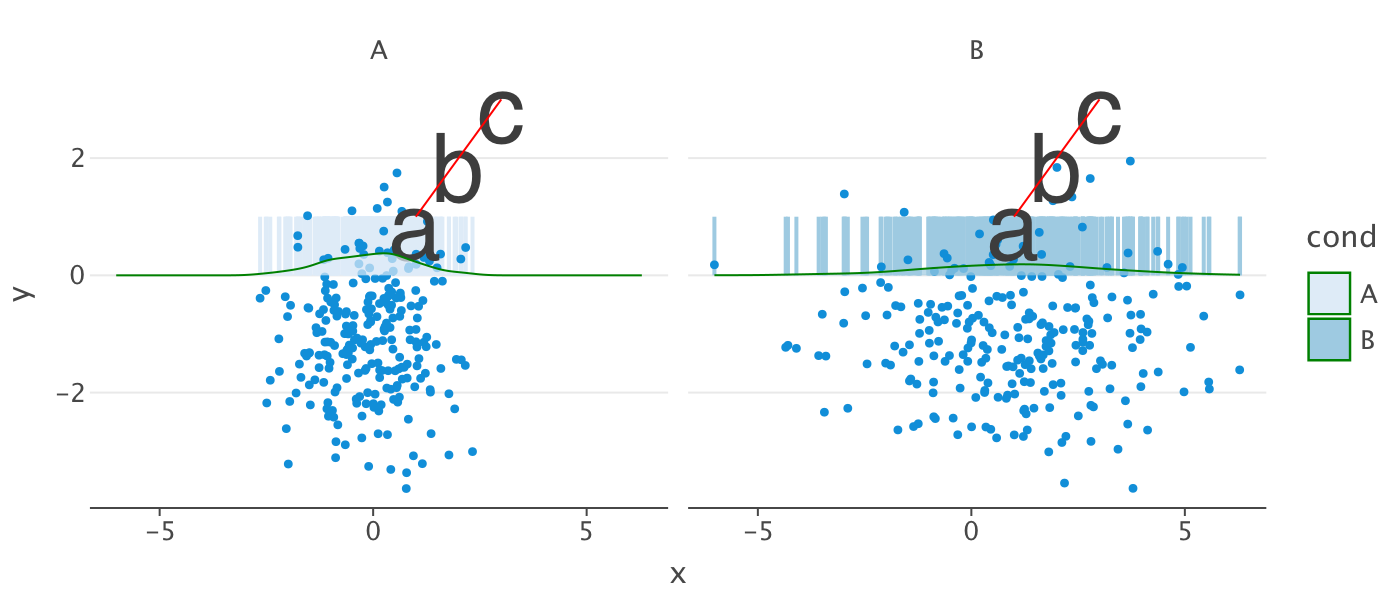
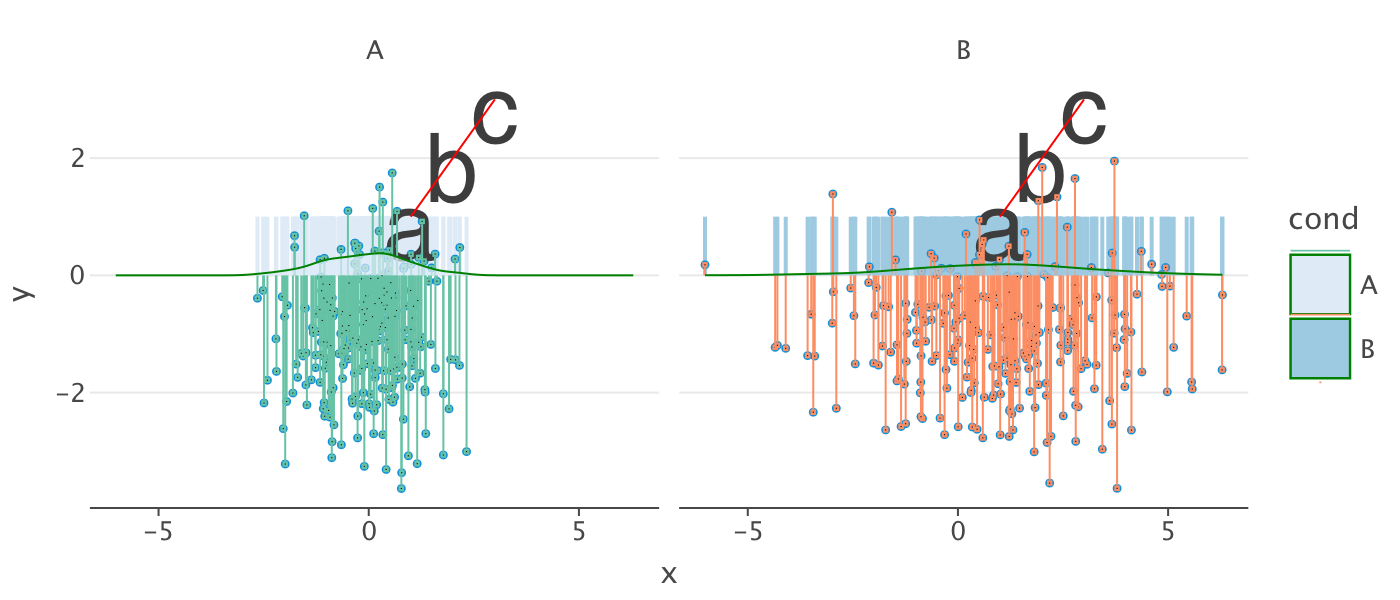
py - let's plot? - lollipop geom

diff --git a/py/letsplot/begin.py b/py/letsplot/begin.py
@@ -3,7 +3,8 @@ from lets_plot import (
     LetsPlot, ggplot, geom_density,
     ggsize, scale_fill_brewer, theme,
     ggsave, aes, geom_text, geom_line,
-    facet_wrap, geom_bar, geom_point
+    facet_wrap, geom_bar, geom_point,
+    geom_lollipop
 )
 
 LetsPlot.setup_html()
@@ -42,6 +43,7 @@ main_plot = (
         size=24,
     ) +
     geom_line(aes(x=[1, 2, 3], y=[1, 2, 3]), color='red') +
+    geom_lollipop(aes(color='cond'), size=0.1, shape=22, fill='black') +
     geom_density(color='dark_green', alpha=.7) +
     scale_fill_brewer(type='seq') +
     theme(panel_grid_major_x='blank') +
